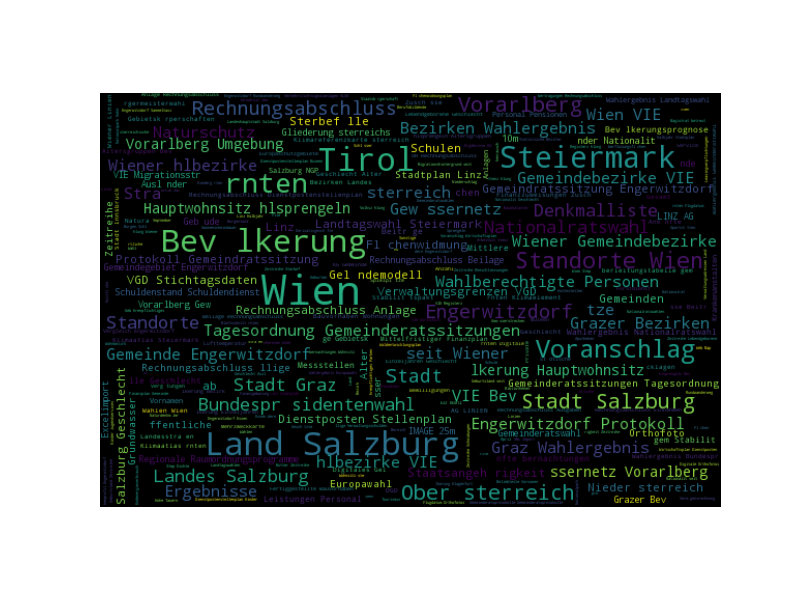
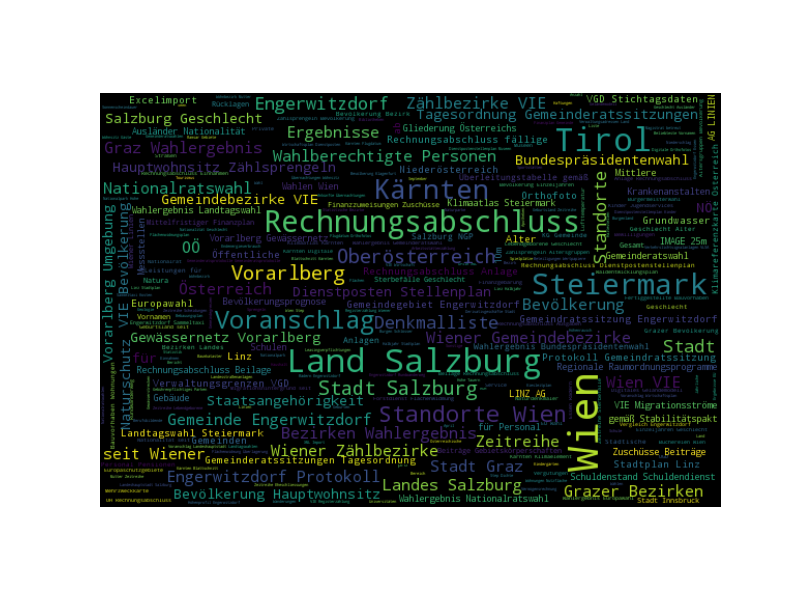
fix: unicode

Changed region(s): [[0.125, 0.15, 0.9062, 0.84]]

diff --git a/generate_wordcloud.py b/generate_wordcloud.py
@@ -12,13 +12,16 @@ Wordcloud generator adopted from https://github.com/amueller/word_cloud/blob/mas
 '''
 
 from os import path
+# import wordcloud
+# from wordcloud import wordcloud
 
 from wordcloud import WordCloud
 
+# d = path.dirname(__file__)
 
 def generate_wordcloud(text):
     # Generate a word cloud image
-    wordcloud = WordCloud().generate(text)
+    wordcloud = WordCloud(max_font_size=40, max_words=2000, width=600, height=400).generate(text)
 
     # Display the generated image:
     # the matplotlib way:
@@ -37,12 +40,14 @@ def generate_wordcloud(text):
     #image = wordcloud.to_image()
     #image.show()
 
-
 def test_generate_wordcloud():
     # descriptions_dump = 'datasets/%s_%s_titles.txt' % (portal_id, snapshot)
     descriptions_dump = 'datasets/data_gv_at_titles.txt'
     # Read the whole text.
-    text = open(descriptions_dump).read()
+    text = open(descriptions_dump).read().decode('utf-8')
+    # import unicodedata
+    # text = unicodedata.normalize('NFKD', text).encode('ascii', 'ignore')
+    # print text
     generate_wordcloud(text)
 
 
